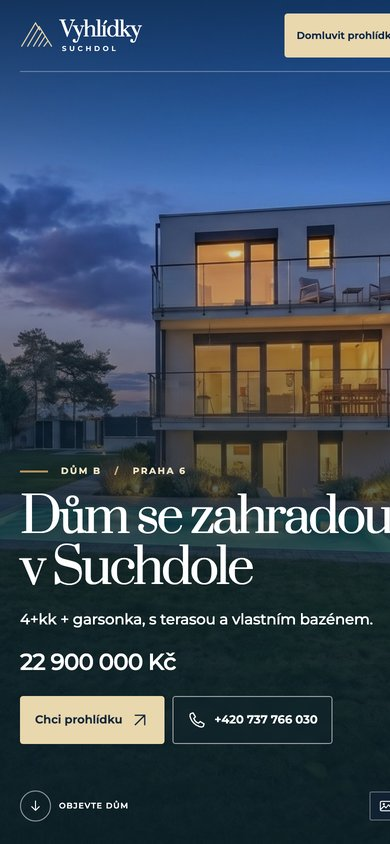
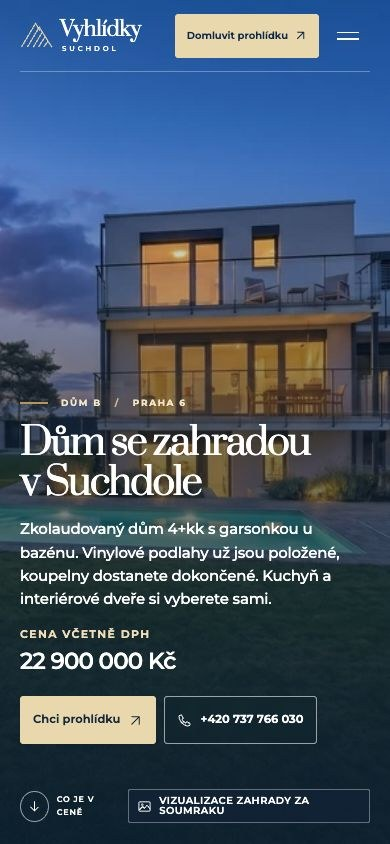
Odkázat ze schvalovací stránky na nový web a obnovit jeho náhledy

diff --git a/sladek-b-schvaleni-d2d19e/index.html b/sladek-b-schvaleni-d2d19e/index.html
@@ -138,7 +138,7 @@ Energetická náročnost budovy (PENB): třída B.
 
 Snímky označené „Vizualizace“ ukazují návrh zařízení a zahrady – zařízení ani výsadba nejsou součástí dodávky. Videoprohlídku doplníme.
 
-Prohlídky individuálně po domluvě: Ing. Eva Goldšmíd, RE/MAX Partner, +420 737 766 030, eva.goldsmid@remax-czech.cz</pre></div><div class="kom" data-sek="text" data-n="Text inzerátu"><label for="k_text">Komentář k části Text inzerátu</label><textarea id="k_text" rows="3" maxlength="3000" placeholder="Souhlasím / připomínka…"></textarea><div class="kb"><button type="button" class="send">Odeslat komentář</button><span class="st" role="status" aria-live="polite"></span></div></div></section><section class="sec" id="reklama"><div class="sh"><span class="num">4</span><h2>Reklama a rozpočet</h2></div><ul class="plan"><li><b>Kde:</b> Google – vyhledávání a bannery na webech. Facebook a Instagram zatím ne.</li><li><b>Kdy:</b> od dne zveřejnění inzerátu do 14. 12. Od 7. 12. asi 70 % (před Vánoci zájem klesá).</li><li><b>Platba:</b> reklamu platí Ing. Eva Goldšmíd ze svého účtu Google Ads a skutečnou útratu vám přefakturuje. Po týdnu a na konci dostanete report.</li></ul><h3 class="pt">Bannery – 3 sady (A/B/C) po 6 formátech</h3><p class="mute">Sady se testují proti sobě, slabší se po týdnu vypne.</p><div class="sada"><h3>Sada A · Dům se zahradou v Suchdole</h3><div class="bgrid"><a class="pic bn" href="bannery/dum-b-A-1200x628.jpg" data-full="bannery/dum-b-A-1200x628.jpg" data-g="b" data-t="Sada A · 1200x628 (Google · šířka)" data-viz="0" style="--r:1200/628"><img src="bannery/n/dum-b-A-1200x628.jpg" alt="Banner sada A, 1200x628" loading="lazy" decoding="async"><span class="ob">1200×628</span></a><a class="pic bn" href="bannery/dum-b-A-300x250.jpg" data-full="bannery/dum-b-A-300x250.jpg" data-g="b" data-t="Sada A · 300x250 (Google · obdélník)" data-viz="0" style="--r:300/250"><img src="bannery/n/dum-b-A-300x250.jpg" alt="Banner sada A, 300x250" loading="lazy" decoding="async"><span class="ob">300×250</span></a><a class="pic bn" href="bannery/dum-b-A-728x90.jpg" data-full="bannery/dum-b-A-728x90.jpg" data-g="b" data-t="Sada A · 728x90 (Google · pruh)" data-viz="0" style="--r:728/90"><img src="bannery/n/dum-b-A-728x90.jpg" alt="Banner sada A, 728x90" loading="lazy" decoding="async"><span class="ob">728×90</span></a><a class="pic bn" href="bannery/dum-b-A-1080x1080.jpg" data-full="bannery/dum-b-A-1080x1080.jpg" data-g="b" data-t="Sada A · 1080x1080 (čtverec)" data-viz="0" style="--r:1080/1080"><img src="bannery/n/dum-b-A-1080x1080.jpg" alt="Banner sada A, 1080x1080" loading="lazy" decoding="async"><span class="ob">1080×1080</span></a><a class="pic bn" href="bannery/dum-b-A-1080x1350.jpg" data-full="bannery/dum-b-A-1080x1350.jpg" data-g="b" data-t="Sada A · 1080x1350 (4 : 5)" data-viz="0" style="--r:1080/1350"><img src="bannery/n/dum-b-A-1080x1350.jpg" alt="Banner sada A, 1080x1350" loading="lazy" decoding="async"><span class="ob">1080×1350</span></a><a class="pic bn" href="bannery/dum-b-A-1080x1920.jpg" data-full="bannery/dum-b-A-1080x1920.jpg" data-g="b" data-t="Sada A · 1080x1920 (výška)" data-viz="0" style="--r:1080/1920"><img src="bannery/n/dum-b-A-1080x1920.jpg" alt="Banner sada A, 1080x1920" loading="lazy" decoding="async"><span class="ob">1080×1920</span></a></div></div><div class="sada"><h3>Sada B · Hotovo a zkolaudováno, zbytek podle vás</h3><div class="bgrid"><a class="pic bn" href="bannery/dum-b-B-1200x628.jpg" data-full="bannery/dum-b-B-1200x628.jpg" data-g="b" data-t="Sada B · 1200x628 (Google · šířka)" data-viz="0" style="--r:1200/628"><img src="bannery/n/dum-b-B-1200x628.jpg" alt="Banner sada B, 1200x628" loading="lazy" decoding="async"><span class="ob">1200×628</span></a><a class="pic bn" href="bannery/dum-b-B-300x250.jpg" data-full="bannery/dum-b-B-300x250.jpg" data-g="b" data-t="Sada B · 300x250 (Google · obdélník)" data-viz="0" style="--r:300/250"><img src="bannery/n/dum-b-B-300x250.jpg" alt="Banner sada B, 300x250" loading="lazy" decoding="async"><span class="ob">300×250</span></a><a class="pic bn" href="bannery/dum-b-B-728x90.jpg" data-full="bannery/dum-b-B-728x90.jpg" data-g="b" data-t="Sada B · 728x90 (Google · pruh)" data-viz="0" style="--r:728/90"><img src="bannery/n/dum-b-B-728x90.jpg" alt="Banner sada B, 728x90" loading="lazy" decoding="async"><span class="ob">728×90</span></a><a class="pic bn" href="bannery/dum-b-B-1080x1080.jpg" data-full="bannery/dum-b-B-1080x1080.jpg" data-g="b" data-t="Sada B · 1080x1080 (čtverec)" data-viz="0" style="--r:1080/1080"><img src="bannery/n/dum-b-B-1080x1080.jpg" alt="Banner sada B, 1080x1080" loading="lazy" decoding="async"><span class="ob">1080×1080</span></a><a class="pic bn" href="bannery/dum-b-B-1080x1350.jpg" data-full="bannery/dum-b-B-1080x1350.jpg" data-g="b" data-t="Sada B · 1080x1350 (4 : 5)" data-viz="0" style="--r:1080/1350"><img src="bannery/n/dum-b-B-1080x1350.jpg" alt="Banner sada B, 1080x1350" loading="lazy" decoding="async"><span class="ob">1080×1350</span></a><a class="pic bn" href="bannery/dum-b-B-1080x1920.jpg" data-full="bannery/dum-b-B-1080x1920.jpg" data-g="b" data-t="Sada B · 1080x1920 (výška)" data-viz="0" style="--r:1080/1920"><img src="bannery/n/dum-b-B-1080x1920.jpg" alt="Banner sada B, 1080x1920" loading="lazy" decoding="async"><span class="ob">1080×1920</span></a></div></div><div class="sada"><h3>Sada C · Kde Praha končí</h3><div class="bgrid"><a class="pic bn" href="bannery/dum-b-C-1200x628.jpg" data-full="bannery/dum-b-C-1200x628.jpg" data-g="b" data-t="Sada C · 1200x628 (Google · šířka)" data-viz="0" style="--r:1200/628"><img src="bannery/n/dum-b-C-1200x628.jpg" alt="Banner sada C, 1200x628" loading="lazy" decoding="async"><span class="ob">1200×628</span></a><a class="pic bn" href="bannery/dum-b-C-300x250.jpg" data-full="bannery/dum-b-C-300x250.jpg" data-g="b" data-t="Sada C · 300x250 (Google · obdélník)" data-viz="0" style="--r:300/250"><img src="bannery/n/dum-b-C-300x250.jpg" alt="Banner sada C, 300x250" loading="lazy" decoding="async"><span class="ob">300×250</span></a><a class="pic bn" href="bannery/dum-b-C-728x90.jpg" data-full="bannery/dum-b-C-728x90.jpg" data-g="b" data-t="Sada C · 728x90 (Google · pruh)" data-viz="0" style="--r:728/90"><img src="bannery/n/dum-b-C-728x90.jpg" alt="Banner sada C, 728x90" loading="lazy" decoding="async"><span class="ob">728×90</span></a><a class="pic bn" href="bannery/dum-b-C-1080x1080.jpg" data-full="bannery/dum-b-C-1080x1080.jpg" data-g="b" data-t="Sada C · 1080x1080 (čtverec)" data-viz="0" style="--r:1080/1080"><img src="bannery/n/dum-b-C-1080x1080.jpg" alt="Banner sada C, 1080x1080" loading="lazy" decoding="async"><span class="ob">1080×1080</span></a><a class="pic bn" href="bannery/dum-b-C-1080x1350.jpg" data-full="bannery/dum-b-C-1080x1350.jpg" data-g="b" data-t="Sada C · 1080x1350 (4 : 5)" data-viz="0" style="--r:1080/1350"><img src="bannery/n/dum-b-C-1080x1350.jpg" alt="Banner sada C, 1080x1350" loading="lazy" decoding="async"><span class="ob">1080×1350</span></a><a class="pic bn" href="bannery/dum-b-C-1080x1920.jpg" data-full="bannery/dum-b-C-1080x1920.jpg" data-g="b" data-t="Sada C · 1080x1920 (výška)" data-viz="0" style="--r:1080/1920"><img src="bannery/n/dum-b-C-1080x1920.jpg" alt="Banner sada C, 1080x1920" loading="lazy" decoding="async"><span class="ob">1080×1920</span></a></div></div><p><a class="dl" href="Dum_B_Suchdol_bannery.zip" download>Stáhnout všech 18 bannerů (ZIP, 16 MB)</a></p><h3 class="pt">Ukázky textů ve vyhledávání Google</h3><div class="gads"><div class="gad"><span class="spon">Sponzorováno · Ing. Eva Goldšmíd</span><b>Dům se zahradou v Suchdole | Vlastní bazén 3 × 6 m | Cena 22 900 000 Kč vč. DPH</b><p>Zahrada s venkovním bazénem 3 × 6 m, balkony a terasy. Garáž a stání na dvoře.</p><small>Sada A</small></div><div class="gad"><span class="spon">Sponzorováno · Ing. Eva Goldšmíd</span><b>Hotovo, zbytek podle vás | Podlahové topení, rekuperace | Domluvte si prohlídku</b><p>V ceně podlahové topení, rekuperace, Loxone v základu a garážová vrata s pohonem.</p><small>Sada B</small></div><div class="gad"><span class="spon">Sponzorováno · Ing. Eva Goldšmíd</span><b>Kde Praha končí | Přírodní rezervace za domem | Dejvice autem cca 12 minut</b><p>Za domem přírodní rezervace Údolí Únětického potoka, do Dejvic autem cca 12 minut.</p><small>Sada C</small></div></div><h3 class="pt" id="rozpocet">Rozpočet do 14. 12. – vyberte</h3><div class="ogrid" role="radiogroup" aria-label="Rozpočet reklamy"><button type="button" class="opt" role="radio" aria-checked="false" data-rek="Základ" data-celk="1 890 Kč"><span class="on">Základ</span><span class="op">1 890 Kč</span><span class="oc">bez DPH, za celé období</span><span class="ow">150 Kč/den, od 7. 12. 105 Kč/den. Menší dosah, hlavně vyhledávání.</span><span class="pick">Vybrat</span></button><button type="button" class="opt rec" role="radio" aria-checked="true" data-rek="Střed" data-celk="3 150 Kč"><span class="badge">Doporučujeme</span><span class="on">Střed</span><span class="op">3 150 Kč</span><span class="oc">bez DPH, za celé období</span><span class="ow">250 Kč/den, od 7. 12. 175 Kč/den. Vyhledávání i bannery v rozumném dosahu.</span><span class="pick">Vybráno</span></button><button type="button" class="opt" role="radio" aria-checked="false" data-rek="Naplno" data-celk="5 040 Kč"><span class="on">Naplno</span><span class="op">5 040 Kč</span><span class="oc">bez DPH, za celé období</span><span class="ow">400 Kč/den, od 7. 12. 280 Kč/den. Největší dosah před Vánoci.</span><span class="pick">Vybrat</span></button></div><p class="mute">Částka je strop při startu 30. 11.; při pozdějším startu bude útrata nižší. Výběr se odešle spolu s komentářem.</p><div class="kom" data-sek="reklama" data-n="Reklama"><label for="k_reklama">Komentář k části Reklama</label><textarea id="k_reklama" rows="3" maxlength="3000" placeholder="Souhlasím / připomínka k reklamě…"></textarea><div class="kb"><button type="button" class="send">Odeslat komentář</button><span class="st" role="status" aria-live="polite"></span></div></div></section><section class="sec" id="web"><div class="sh"><span class="num">5</span><h2>Web domu B</h2></div><a class="webnahled" href="https://frantisekdron.github.io/vyhlidky-podklady/web-b/" target="_blank" rel="noopener"><span class="wn-pc"><span class="wn-bar"><i></i><i></i><i></i><b>frantisekdron.github.io/vyhlidky-podklady/web-b</b></span><img src="web_pc.jpg" alt="Náhled webu domu B na počítači" width="1200" height="750" loading="lazy"></span><span class="wn-tel"><img src="web_m.jpg" alt="Náhled webu domu B na mobilu" width="390" height="844" loading="lazy"></span></a><p class="mute">Finální podobu ještě ladíme.</p><p><a class="dl" href="https://frantisekdron.github.io/vyhlidky-podklady/web-b/" target="_blank" rel="noopener">Otevřít web domu B</a></p><div class="kom" data-sek="web" data-n="Web"><label for="k_web">Komentář k části Web</label><textarea id="k_web" rows="3" maxlength="3000" placeholder="Souhlasím / připomínka…"></textarea><div class="kb"><button type="button" class="send">Odeslat komentář</button><span class="st" role="status" aria-live="polite"></span></div></div></section><section class="sec" id="eva"><div class="sh"><span class="num">6</span><h2>Nabídka na webu makléřky</h2></div><p class="lead2">Nabídka domu B na webu makléřky Ing. Evy Goldšmíd:</p><p><a class="dl wide" href="https://maklerkaeva.cz/nabidka-vyhlidky-suchdol-dum-b/index.html" target="_blank" rel="noopener">maklerkaeva.cz/nabidka-vyhlidky-suchdol-dum-b</a></p><div class="kom" data-sek="eva" data-n="Nabídka u makléřky"><label for="k_eva">Komentář k části Nabídka u makléřky</label><textarea id="k_eva" rows="3" maxlength="3000" placeholder="Souhlasím / připomínka…"></textarea><div class="kb"><button type="button" class="send">Odeslat komentář</button><span class="st" role="status" aria-live="polite"></span></div></div></section>
+Prohlídky individuálně po domluvě: Ing. Eva Goldšmíd, RE/MAX Partner, +420 737 766 030, eva.goldsmid@remax-czech.cz</pre></div><div class="kom" data-sek="text" data-n="Text inzerátu"><label for="k_text">Komentář k části Text inzerátu</label><textarea id="k_text" rows="3" maxlength="3000" placeholder="Souhlasím / připomínka…"></textarea><div class="kb"><button type="button" class="send">Odeslat komentář</button><span class="st" role="status" aria-live="polite"></span></div></div></section><section class="sec" id="reklama"><div class="sh"><span class="num">4</span><h2>Reklama a rozpočet</h2></div><ul class="plan"><li><b>Kde:</b> Google – vyhledávání a bannery na webech. Facebook a Instagram zatím ne.</li><li><b>Kdy:</b> od dne zveřejnění inzerátu do 14. 12. Od 7. 12. asi 70 % (před Vánoci zájem klesá).</li><li><b>Platba:</b> reklamu platí Ing. Eva Goldšmíd ze svého účtu Google Ads a skutečnou útratu vám přefakturuje. Po týdnu a na konci dostanete report.</li></ul><h3 class="pt">Bannery – 3 sady (A/B/C) po 6 formátech</h3><p class="mute">Sady se testují proti sobě, slabší se po týdnu vypne.</p><div class="sada"><h3>Sada A · Dům se zahradou v Suchdole</h3><div class="bgrid"><a class="pic bn" href="bannery/dum-b-A-1200x628.jpg" data-full="bannery/dum-b-A-1200x628.jpg" data-g="b" data-t="Sada A · 1200x628 (Google · šířka)" data-viz="0" style="--r:1200/628"><img src="bannery/n/dum-b-A-1200x628.jpg" alt="Banner sada A, 1200x628" loading="lazy" decoding="async"><span class="ob">1200×628</span></a><a class="pic bn" href="bannery/dum-b-A-300x250.jpg" data-full="bannery/dum-b-A-300x250.jpg" data-g="b" data-t="Sada A · 300x250 (Google · obdélník)" data-viz="0" style="--r:300/250"><img src="bannery/n/dum-b-A-300x250.jpg" alt="Banner sada A, 300x250" loading="lazy" decoding="async"><span class="ob">300×250</span></a><a class="pic bn" href="bannery/dum-b-A-728x90.jpg" data-full="bannery/dum-b-A-728x90.jpg" data-g="b" data-t="Sada A · 728x90 (Google · pruh)" data-viz="0" style="--r:728/90"><img src="bannery/n/dum-b-A-728x90.jpg" alt="Banner sada A, 728x90" loading="lazy" decoding="async"><span class="ob">728×90</span></a><a class="pic bn" href="bannery/dum-b-A-1080x1080.jpg" data-full="bannery/dum-b-A-1080x1080.jpg" data-g="b" data-t="Sada A · 1080x1080 (čtverec)" data-viz="0" style="--r:1080/1080"><img src="bannery/n/dum-b-A-1080x1080.jpg" alt="Banner sada A, 1080x1080" loading="lazy" decoding="async"><span class="ob">1080×1080</span></a><a class="pic bn" href="bannery/dum-b-A-1080x1350.jpg" data-full="bannery/dum-b-A-1080x1350.jpg" data-g="b" data-t="Sada A · 1080x1350 (4 : 5)" data-viz="0" style="--r:1080/1350"><img src="bannery/n/dum-b-A-1080x1350.jpg" alt="Banner sada A, 1080x1350" loading="lazy" decoding="async"><span class="ob">1080×1350</span></a><a class="pic bn" href="bannery/dum-b-A-1080x1920.jpg" data-full="bannery/dum-b-A-1080x1920.jpg" data-g="b" data-t="Sada A · 1080x1920 (výška)" data-viz="0" style="--r:1080/1920"><img src="bannery/n/dum-b-A-1080x1920.jpg" alt="Banner sada A, 1080x1920" loading="lazy" decoding="async"><span class="ob">1080×1920</span></a></div></div><div class="sada"><h3>Sada B · Hotovo a zkolaudováno, zbytek podle vás</h3><div class="bgrid"><a class="pic bn" href="bannery/dum-b-B-1200x628.jpg" data-full="bannery/dum-b-B-1200x628.jpg" data-g="b" data-t="Sada B · 1200x628 (Google · šířka)" data-viz="0" style="--r:1200/628"><img src="bannery/n/dum-b-B-1200x628.jpg" alt="Banner sada B, 1200x628" loading="lazy" decoding="async"><span class="ob">1200×628</span></a><a class="pic bn" href="bannery/dum-b-B-300x250.jpg" data-full="bannery/dum-b-B-300x250.jpg" data-g="b" data-t="Sada B · 300x250 (Google · obdélník)" data-viz="0" style="--r:300/250"><img src="bannery/n/dum-b-B-300x250.jpg" alt="Banner sada B, 300x250" loading="lazy" decoding="async"><span class="ob">300×250</span></a><a class="pic bn" href="bannery/dum-b-B-728x90.jpg" data-full="bannery/dum-b-B-728x90.jpg" data-g="b" data-t="Sada B · 728x90 (Google · pruh)" data-viz="0" style="--r:728/90"><img src="bannery/n/dum-b-B-728x90.jpg" alt="Banner sada B, 728x90" loading="lazy" decoding="async"><span class="ob">728×90</span></a><a class="pic bn" href="bannery/dum-b-B-1080x1080.jpg" data-full="bannery/dum-b-B-1080x1080.jpg" data-g="b" data-t="Sada B · 1080x1080 (čtverec)" data-viz="0" style="--r:1080/1080"><img src="bannery/n/dum-b-B-1080x1080.jpg" alt="Banner sada B, 1080x1080" loading="lazy" decoding="async"><span class="ob">1080×1080</span></a><a class="pic bn" href="bannery/dum-b-B-1080x1350.jpg" data-full="bannery/dum-b-B-1080x1350.jpg" data-g="b" data-t="Sada B · 1080x1350 (4 : 5)" data-viz="0" style="--r:1080/1350"><img src="bannery/n/dum-b-B-1080x1350.jpg" alt="Banner sada B, 1080x1350" loading="lazy" decoding="async"><span class="ob">1080×1350</span></a><a class="pic bn" href="bannery/dum-b-B-1080x1920.jpg" data-full="bannery/dum-b-B-1080x1920.jpg" data-g="b" data-t="Sada B · 1080x1920 (výška)" data-viz="0" style="--r:1080/1920"><img src="bannery/n/dum-b-B-1080x1920.jpg" alt="Banner sada B, 1080x1920" loading="lazy" decoding="async"><span class="ob">1080×1920</span></a></div></div><div class="sada"><h3>Sada C · Kde Praha končí</h3><div class="bgrid"><a class="pic bn" href="bannery/dum-b-C-1200x628.jpg" data-full="bannery/dum-b-C-1200x628.jpg" data-g="b" data-t="Sada C · 1200x628 (Google · šířka)" data-viz="0" style="--r:1200/628"><img src="bannery/n/dum-b-C-1200x628.jpg" alt="Banner sada C, 1200x628" loading="lazy" decoding="async"><span class="ob">1200×628</span></a><a class="pic bn" href="bannery/dum-b-C-300x250.jpg" data-full="bannery/dum-b-C-300x250.jpg" data-g="b" data-t="Sada C · 300x250 (Google · obdélník)" data-viz="0" style="--r:300/250"><img src="bannery/n/dum-b-C-300x250.jpg" alt="Banner sada C, 300x250" loading="lazy" decoding="async"><span class="ob">300×250</span></a><a class="pic bn" href="bannery/dum-b-C-728x90.jpg" data-full="bannery/dum-b-C-728x90.jpg" data-g="b" data-t="Sada C · 728x90 (Google · pruh)" data-viz="0" style="--r:728/90"><img src="bannery/n/dum-b-C-728x90.jpg" alt="Banner sada C, 728x90" loading="lazy" decoding="async"><span class="ob">728×90</span></a><a class="pic bn" href="bannery/dum-b-C-1080x1080.jpg" data-full="bannery/dum-b-C-1080x1080.jpg" data-g="b" data-t="Sada C · 1080x1080 (čtverec)" data-viz="0" style="--r:1080/1080"><img src="bannery/n/dum-b-C-1080x1080.jpg" alt="Banner sada C, 1080x1080" loading="lazy" decoding="async"><span class="ob">1080×1080</span></a><a class="pic bn" href="bannery/dum-b-C-1080x1350.jpg" data-full="bannery/dum-b-C-1080x1350.jpg" data-g="b" data-t="Sada C · 1080x1350 (4 : 5)" data-viz="0" style="--r:1080/1350"><img src="bannery/n/dum-b-C-1080x1350.jpg" alt="Banner sada C, 1080x1350" loading="lazy" decoding="async"><span class="ob">1080×1350</span></a><a class="pic bn" href="bannery/dum-b-C-1080x1920.jpg" data-full="bannery/dum-b-C-1080x1920.jpg" data-g="b" data-t="Sada C · 1080x1920 (výška)" data-viz="0" style="--r:1080/1920"><img src="bannery/n/dum-b-C-1080x1920.jpg" alt="Banner sada C, 1080x1920" loading="lazy" decoding="async"><span class="ob">1080×1920</span></a></div></div><p><a class="dl" href="Dum_B_Suchdol_bannery.zip" download>Stáhnout všech 18 bannerů (ZIP, 16 MB)</a></p><h3 class="pt">Ukázky textů ve vyhledávání Google</h3><div class="gads"><div class="gad"><span class="spon">Sponzorováno · Ing. Eva Goldšmíd</span><b>Dům se zahradou v Suchdole | Vlastní bazén 3 × 6 m | Cena 22 900 000 Kč vč. DPH</b><p>Zahrada s venkovním bazénem 3 × 6 m, balkony a terasy. Garáž a stání na dvoře.</p><small>Sada A</small></div><div class="gad"><span class="spon">Sponzorováno · Ing. Eva Goldšmíd</span><b>Hotovo, zbytek podle vás | Podlahové topení, rekuperace | Domluvte si prohlídku</b><p>V ceně podlahové topení, rekuperace, Loxone v základu a garážová vrata s pohonem.</p><small>Sada B</small></div><div class="gad"><span class="spon">Sponzorováno · Ing. Eva Goldšmíd</span><b>Kde Praha končí | Přírodní rezervace za domem | Dejvice autem cca 12 minut</b><p>Za domem přírodní rezervace Údolí Únětického potoka, do Dejvic autem cca 12 minut.</p><small>Sada C</small></div></div><h3 class="pt" id="rozpocet">Rozpočet do 14. 12. – vyberte</h3><div class="ogrid" role="radiogroup" aria-label="Rozpočet reklamy"><button type="button" class="opt" role="radio" aria-checked="false" data-rek="Základ" data-celk="1 890 Kč"><span class="on">Základ</span><span class="op">1 890 Kč</span><span class="oc">bez DPH, za celé období</span><span class="ow">150 Kč/den, od 7. 12. 105 Kč/den. Menší dosah, hlavně vyhledávání.</span><span class="pick">Vybrat</span></button><button type="button" class="opt rec" role="radio" aria-checked="true" data-rek="Střed" data-celk="3 150 Kč"><span class="badge">Doporučujeme</span><span class="on">Střed</span><span class="op">3 150 Kč</span><span class="oc">bez DPH, za celé období</span><span class="ow">250 Kč/den, od 7. 12. 175 Kč/den. Vyhledávání i bannery v rozumném dosahu.</span><span class="pick">Vybráno</span></button><button type="button" class="opt" role="radio" aria-checked="false" data-rek="Naplno" data-celk="5 040 Kč"><span class="on">Naplno</span><span class="op">5 040 Kč</span><span class="oc">bez DPH, za celé období</span><span class="ow">400 Kč/den, od 7. 12. 280 Kč/den. Největší dosah před Vánoci.</span><span class="pick">Vybrat</span></button></div><p class="mute">Částka je strop při startu 30. 11.; při pozdějším startu bude útrata nižší. Výběr se odešle spolu s komentářem.</p><div class="kom" data-sek="reklama" data-n="Reklama"><label for="k_reklama">Komentář k části Reklama</label><textarea id="k_reklama" rows="3" maxlength="3000" placeholder="Souhlasím / připomínka k reklamě…"></textarea><div class="kb"><button type="button" class="send">Odeslat komentář</button><span class="st" role="status" aria-live="polite"></span></div></div></section><section class="sec" id="web"><div class="sh"><span class="num">5</span><h2>Web domu B</h2></div><a class="webnahled" href="https://frantisekdron.github.io/vyhlidky-podklady/web-b/ke-schvaleni/" target="_blank" rel="noopener"><span class="wn-pc"><span class="wn-bar"><i></i><i></i><i></i><b>frantisekdron.github.io/vyhlidky-podklady/web-b/ke-schvaleni</b></span><img src="web_pc.jpg" alt="Náhled webu domu B na počítači" width="1200" height="750" loading="lazy"></span><span class="wn-tel"><img src="web_m.jpg" alt="Náhled webu domu B na mobilu" width="390" height="844" loading="lazy"></span></a><p class="mute">Ke schválení je večerní zahrada v úvodu, galerie s porovnáním a 3D konfigurátor.</p><p><a class="dl" href="https://frantisekdron.github.io/vyhlidky-podklady/web-b/ke-schvaleni/" target="_blank" rel="noopener">Otevřít web ke schválení</a></p><div class="kom" data-sek="web" data-n="Web"><label for="k_web">Komentář k části Web</label><textarea id="k_web" rows="3" maxlength="3000" placeholder="Souhlasím / připomínka…"></textarea><div class="kb"><button type="button" class="send">Odeslat komentář</button><span class="st" role="status" aria-live="polite"></span></div></div></section><section class="sec" id="eva"><div class="sh"><span class="num">6</span><h2>Nabídka na webu makléřky</h2></div><p class="lead2">Nabídka domu B na webu makléřky Ing. Evy Goldšmíd:</p><p><a class="dl wide" href="https://maklerkaeva.cz/nabidka-vyhlidky-suchdol-dum-b/index.html" target="_blank" rel="noopener">maklerkaeva.cz/nabidka-vyhlidky-suchdol-dum-b</a></p><div class="kom" data-sek="eva" data-n="Nabídka u makléřky"><label for="k_eva">Komentář k části Nabídka u makléřky</label><textarea id="k_eva" rows="3" maxlength="3000" placeholder="Souhlasím / připomínka…"></textarea><div class="kb"><button type="button" class="send">Odeslat komentář</button><span class="st" role="status" aria-live="polite"></span></div></div></section>
 <footer>FrantišekDron · Ing. Eva Goldšmíd, +420 737 766 030, eva.goldsmid@remax-czech.cz</footer>
 </div>
 <div id="lb" role="dialog" aria-modal="true" aria-label="Zvětšený obrázek"><div id="lbs"><img alt=""></div>
